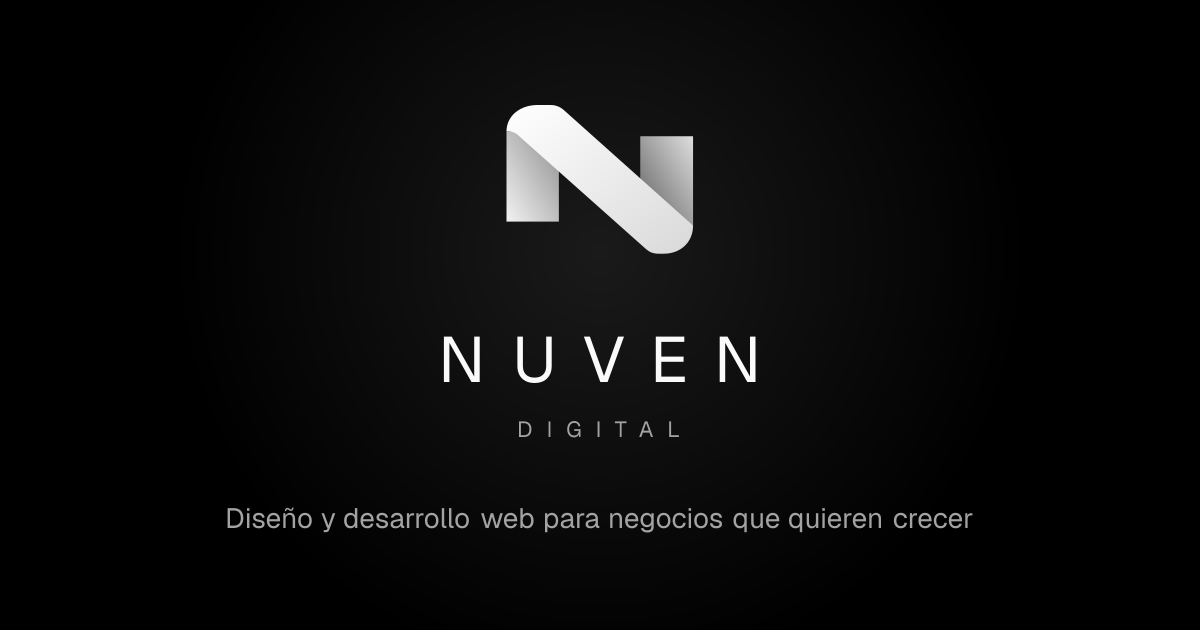
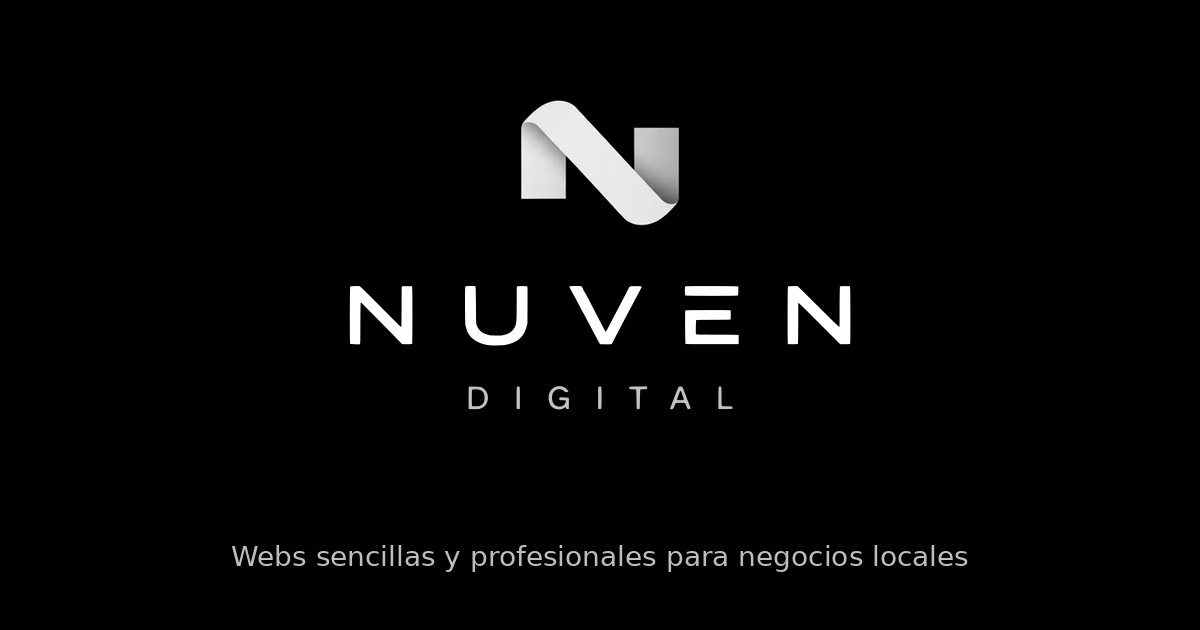
Add files via upload

diff --git a/css/style.css b/css/style.css
@@ -83,9 +83,8 @@ main,.foot,.top,.dock{position:relative;z-index:1}
   position:relative;display:grid;justify-items:center;gap:1.4rem;
   clip-path:inset(50% 0 50% 0);animation:openUp .5s cubic-bezier(.6,0,.2,1) .65s forwards;
 }
-.intro-mark{filter:drop-shadow(0 0 22px rgba(255,255,255,.25))}
-.intro-name{display:grid;justify-items:center;gap:.55rem;font:500 1.5rem/1 var(--display);letter-spacing:.42em;margin-right:-.42em}
-.intro-name i{font:400 .62rem/1 var(--display);letter-spacing:.7em;margin-right:-.7em;font-style:normal;color:var(--dim)}
+.intro-mark{width:min(8.25rem,36vw);height:auto;filter:drop-shadow(0 0 22px rgba(255,255,255,.25))}
+.intro-name{width:min(14.4rem,64vw);height:auto}
 @keyframes dotIn{to{opacity:1;transform:scale(1)}}
 @keyframes dotOut{to{opacity:0;transform:scale(.4)}}
 @keyframes beam{0%{opacity:1;transform:scaleX(0)}100%{opacity:1;transform:scaleX(1)}}
@@ -98,11 +97,14 @@ main,.foot,.top,.dock{position:relative;z-index:1}
 .top{position:sticky;top:0;z-index:50;background:rgba(0,0,0,.82);backdrop-filter:blur(10px);-webkit-backdrop-filter:blur(10px);border-bottom:1px solid var(--line)}
 .top-in{display:flex;align-items:center;justify-content:space-between;gap:1rem;min-height:var(--top-h)}
 .logo{display:inline-flex;align-items:center;gap:.7rem;text-decoration:none}
-.wm{display:grid;gap:.28rem;font:500 .95rem/1 var(--display);letter-spacing:.3em}
-.wm i{font:400 .5rem/1 var(--display);letter-spacing:.62em;font-style:normal;color:var(--dim)}
+.mk{height:2rem;width:auto}
+.wm{height:2rem;width:auto}
 .nav{display:none}
 .nav a{text-decoration:none;color:var(--dim);font-size:.95rem;padding:.4rem .2rem;transition:color .2s}
 .nav a:hover{color:var(--fg)}
+.nav a::before{content:"[" / "";margin-right:.35em;opacity:0;transition:opacity .2s}
+.nav a::after{content:"]" / "";margin-left:.35em;opacity:0;transition:opacity .2s}
+.nav a:hover::before,.nav a:hover::after,.nav a:focus-visible::before,.nav a:focus-visible::after{opacity:1}
 @media (min-width:62rem){.nav{display:flex;gap:1.6rem}}
 
 /* ---------- Botones ---------- */
@@ -127,9 +129,14 @@ main,.foot,.top,.dock{position:relative;z-index:1}
 .hero{
   position:relative;isolation:isolate;overflow:hidden;
   min-height:calc(100svh - var(--top-h) - var(--dock-h));
-  display:flex;align-items:center;
-  padding-block:clamp(3rem,9vw,6rem);
+  display:flex;flex-direction:column;justify-content:space-between;gap:clamp(2rem,6vw,4rem);
+  padding-top:clamp(3rem,9vw,6rem);
 }
+.hero>.wrap{margin-block:auto}
+.giant{width:calc(100% - 2*var(--gut));margin-inline:auto;aspect-ratio:490/80;overflow:hidden;opacity:.94}
+.giant img{display:block;width:100%;height:auto}
+@media (prefers-reduced-motion:no-preference){.js .giant img{animation:giantUp .9s cubic-bezier(.2,.8,.2,1) .15s both}}
+@keyframes giantUp{from{transform:translateY(40%);opacity:0}}
 @media (min-width:62rem){.hero{min-height:calc(100svh - var(--top-h))}}
 .field{
   position:absolute;inset:0;width:100%;height:100%;z-index:-2;
@@ -163,7 +170,11 @@ h3{font:600 1.15rem/1.25 var(--display);letter-spacing:-.02em}
 }
 @media (min-width:62rem){.phone{--ph:min(70svh,36rem)}}
 .phone::before{content:"";position:absolute;left:50%;top:.55rem;width:28%;height:.45em;transform:translateX(-50%);background:#000;border:1.5px solid rgba(255,255,255,.35);border-radius:1em;z-index:3}
-.ph-screen{position:relative;height:100%;border-radius:1.7rem;overflow:hidden;background:#000;border:1px solid var(--line)}
+.ph-screen{position:relative;height:100%;border-radius:1.7rem;overflow:hidden;background:var(--s-bg,#000);color:var(--s-fg,#fff);border:1px solid var(--line);transition:background .35s,color .35s}
+.ph-screen[data-style="limpio"]{--s-bg:#f4f7fb;--s-fg:#0f1b2d;--s-dim:#4a5a73;--s-line:#cfd8e6;--s-acc:#1d4ed8;--s-on:#fff;--s-font:system-ui,-apple-system,"Segoe UI",Roboto,sans-serif;--s-w:700;--s-tt:none;--s-rb:.6em;--s-rl:.6em}
+.ph-screen[data-style="industrial"]{--s-bg:#111315;--s-fg:#f4f4f4;--s-dim:#a8a8a8;--s-line:#3a3d42;--s-acc:#fcc204;--s-on:#111;--s-font:Impact,"Arial Narrow","Arial Black",system-ui,sans-serif;--s-w:400;--s-tt:uppercase;--s-rb:.15em;--s-rl:.15em}
+.ph-screen[data-style="elegante"]{--s-bg:#fbfaf7;--s-fg:#1a1a1a;--s-dim:#5f5b55;--s-line:#d9d4ca;--s-acc:#1a1a1a;--s-on:#fbfaf7;--s-font:Georgia,"Times New Roman",serif;--s-w:400;--s-tt:none;--s-rb:0;--s-rl:0}
+.ph-screen[data-style="vivo"]{--s-bg:#0a0a0a;--s-fg:#f7f6f2;--s-dim:#a8a8a0;--s-line:#34352c;--s-acc:#c9f13b;--s-on:#0a0a0a;--s-font:var(--display);--s-w:800;--s-tt:none;--s-rb:2em;--s-rl:.9em}
 .sc{position:absolute;inset:0;padding:2.4em 1.1em 1.1em;display:flex;flex-direction:column;gap:.8em;opacity:0;transition:opacity .45s}
 .sc-3{opacity:1}
 
@@ -190,14 +201,14 @@ h3{font:600 1.15rem/1.25 var(--display);letter-spacing:-.02em}
 
 /* escena 2 y demo: mini web */
 .mw{display:flex;flex-direction:column;gap:.9em;height:100%}
-.mw-name{font:700 1.45em/1.1 var(--display);letter-spacing:-.02em}
-.mw-tag{color:var(--dim);font-size:1em}
+.mw-name{font:var(--s-w,700) 1.45em/1.1 var(--s-font,var(--display));letter-spacing:-.02em;text-transform:var(--s-tt,none)}
+.mw-tag{color:var(--s-dim,var(--dim));font-size:1em}
 .mw-btns{display:grid;gap:.55em}
-.mw-b{display:flex;align-items:center;justify-content:center;min-height:2.9em;border-radius:.8em;border:1.5px solid #fff;font-weight:600;font-size:1.05em}
-.mw-b.w{background:#fff;color:#000}
+.mw-b{display:flex;align-items:center;justify-content:center;min-height:2.9em;border-radius:var(--s-rb,.8em);border:1.5px solid var(--s-fg,#fff);font-weight:600;font-size:1.05em;text-transform:var(--s-tt,none)}
+.mw-b.w{background:var(--s-acc,#fff);color:var(--s-on,#000);border-color:var(--s-acc,#fff)}
 .mw-list{display:grid;gap:.5em;margin-top:.3em}
-.mw-list li{padding:.75em .9em;border:1px solid var(--line);border-radius:.8em;font-size:.98em}
-.mw-zone{margin-top:auto;color:var(--dim);font-size:.9em}
+.mw-list li{padding:.75em .9em;border:1px solid var(--s-line,var(--line));border-radius:var(--s-rl,.8em);font-size:.98em}
+.mw-zone{margin-top:auto;color:var(--s-dim,var(--dim));font-size:.9em}
 
 /* escena 3: mensaje */
 .notif{border:1px solid rgba(255,255,255,.4);background:rgba(255,255,255,.1);border-radius:1em;padding:.7em .9em;font-size:.95em}
@@ -258,25 +269,35 @@ h3{font:600 1.15rem/1.25 var(--display);letter-spacing:-.02em}
 .feat li::before{content:"";position:absolute;left:0;top:.7em;width:.7rem;height:2px;background:#fff;box-shadow:0 0 8px rgba(255,255,255,.7)}
 .feat p{color:var(--dim);margin-top:.2rem}
 .demo-note{margin-top:1.4rem;font-size:.9rem;color:var(--dim)}
+.pick{margin:1.6rem 0 2rem;display:grid;gap:.2rem}
+.pick-t{font-size:.9rem;color:var(--dim);margin-top:.7rem}
+.pick .chips{margin:.3rem 0 .4rem}
 
-/* ---------- Sección blanca: ejemplo real ---------- */
+/* ---------- Sección blanca: proyectos ---------- */
 .paper{background:var(--paper);color:var(--ink)}
 .paper .lead{color:var(--ink-dim)}
-.case{display:grid;gap:clamp(2rem,6vw,4rem);align-items:center}
-.ticks{margin:1.8rem 0 2rem;display:grid;gap:.7rem}
-.ticks li{position:relative;padding-left:1.7rem}
-.ticks li::before{content:"";position:absolute;left:0;top:.62em;width:.8rem;height:2px;background:currentColor}
-@media (min-width:62rem){.case{grid-template-columns:1fr 1.15fr}}
-.case-visual{--p:.5;perspective:1100px}
-.browser{
-  background:#fff;border:2px solid #000;border-radius:14px;overflow:hidden;box-shadow:10px 10px 0 #000;
-  transform:rotateX(calc((.5 - var(--p)) * 10deg)) rotateY(calc((var(--p) - .5) * -8deg));
-  transition:transform .15s linear;
+.works-wrap{margin-top:clamp(2rem,5vw,3.2rem)}
+.works{
+  display:grid;grid-auto-flow:column;grid-auto-columns:min(84%,24rem);gap:1.4rem;
+  overflow-x:auto;scroll-snap-type:x mandatory;margin-inline:calc(-1*var(--gut));padding:.2rem var(--gut) 1.8rem;
+  scrollbar-width:thin;overscroll-behavior-x:contain;
 }
-.browser-bar{display:flex;align-items:center;gap:.4rem;padding:.7rem .9rem;border-bottom:2px solid #000;background:#f2f2f2}
-.browser-bar i{width:.65rem;height:.65rem;border-radius:50%;border:1.5px solid #000}
-.browser-bar span{margin-left:.6rem;font:500 .8rem/1 var(--body);color:#000}
-.browser img{width:100%;height:auto;aspect-ratio:1600/904;background:#eee}
+.work{scroll-snap-align:start;display:grid;gap:.6rem;align-content:start}
+.work h3{margin-top:.7rem;font-size:1.25rem}
+.work-type{color:var(--ink-dim)}
+.work-style{display:flex;align-items:center;gap:.8rem;font-size:.95rem}
+.sws{display:inline-flex;flex:none}
+.sws i{width:1.5rem;height:1.5rem;border-radius:50%;background:var(--c);border:1.5px solid #000;margin-left:-.35rem}
+.sws i:first-child{margin-left:0}
+.work-link{font-weight:600;text-underline-offset:4px;width:max-content}
+.browser{background:#fff;border:2px solid #000;border-radius:14px;overflow:hidden;box-shadow:6px 6px 0 #000}
+.browser-bar{display:flex;align-items:center;gap:.4rem;padding:.6rem .8rem;border-bottom:2px solid #000;background:#f2f2f2}
+.browser-bar i{width:.6rem;height:.6rem;border-radius:50%;border:1.5px solid #000}
+.browser-bar span{margin-left:.6rem;font:500 .78rem/1 var(--body);color:#000}
+.browser img{width:100%;height:auto;aspect-ratio:16/9;background:#eee}
+@media (min-width:62rem){
+  .works{grid-auto-flow:row;grid-template-columns:repeat(3,1fr);grid-auto-columns:auto;overflow:visible;scroll-snap-type:none;margin-inline:0;padding:.2rem .5rem 1rem 0;gap:2rem}
+}
 
 /* ---------- Precios ---------- */
 .plans{margin-top:clamp(2rem,5vw,3.5rem);display:grid;gap:1rem}

diff --git a/index.html b/index.html
@@ -7,7 +7,7 @@
 <meta name="description" content="Hacemos webs sencillas y profesionales para reformistas, fontaneros, electricistas y pintores. Rápidas en el móvil y con tu WhatsApp siempre a mano.">
 <meta name="theme-color" content="#000000">
 <link rel="canonical" href="https://nuvendigital.com/">
-<link rel="icon" href="assets/icon.svg" type="image/svg+xml">
+<link rel="icon" href="assets/favicon-32.png" type="image/png" sizes="32x32">
 <link rel="icon" href="favicon.ico" sizes="32x32">
 <link rel="apple-touch-icon" href="assets/apple-icon.png">
 <meta property="og:type" content="website">
@@ -37,18 +37,6 @@ try{if(!sessionStorage.getItem("nd-intro"))d.classList.add("intro-active")}catch
 </script>
 </head>
 <body>
-<svg width="0" height="0" style="position:absolute" aria-hidden="true" focusable="false">
-  <defs>
-    <linearGradient id="nd-l" x1="0" y1="1" x2="1" y2="0"><stop offset="0" stop-color="#f2f2f2"/><stop offset=".6" stop-color="#d6d6d6"/><stop offset="1" stop-color="#8e8e8e"/></linearGradient>
-    <linearGradient id="nd-r" x1="1" y1="0" x2="0" y2="1"><stop offset="0" stop-color="#dedede"/><stop offset=".55" stop-color="#a9a9a9"/><stop offset="1" stop-color="#5e5e5e"/></linearGradient>
-    <linearGradient id="nd-d" x1="0" y1="0" x2="1" y2="1"><stop offset="0" stop-color="#fff"/><stop offset=".7" stop-color="#f1f1f1"/><stop offset="1" stop-color="#d9d9d9"/></linearGradient>
-    <symbol id="nd-mark" viewBox="5 3 89 72">
-      <path d="M7.5 17h23.8v41H7.5z" fill="url(#nd-l)"/>
-      <path d="M68.3 19.2h24v40.6h-24z" fill="url(#nd-r)"/>
-      <path d="M7.5 17C7.5 10 13.6 5 21.6 5H27.4C30.2 5 32.2 6 34 7.7L92.3 59.8C92.3 67.4 86.6 72.6 79 72.6H76.6C74.2 72.6 72.5 71.9 70.8 70.4L12.6 18.6C11.1 17.3 9.4 16.9 7.5 17Z" fill="url(#nd-d)"/>
-    </symbol>
-  </defs>
-</svg>
 <a class="skip" href="#main">Saltar al contenido</a>
 
 <!-- Intro: un punto de luz se abre en línea y deja ver el logo. Ligera y una vez por sesión. -->
@@ -57,12 +45,8 @@ try{if(!sessionStorage.getItem("nd-intro"))d.classList.add("intro-active")}catch
   <span class="i-beam"></span>
   <span class="i-dot"></span>
   <div class="i-logo">
-    <svg class="intro-mark" viewBox="5 3 89 72" width="132" height="107" focusable="false">
-      <path d="M7.5 17h23.8v41H7.5z" fill="url(#nd-l)"/>
-      <path d="M68.3 19.2h24v40.6h-24z" fill="url(#nd-r)"/>
-      <path d="M7.5 17C7.5 10 13.6 5 21.6 5H27.4C30.2 5 32.2 6 34 7.7L92.3 59.8C92.3 67.4 86.6 72.6 79 72.6H76.6C74.2 72.6 72.5 71.9 70.8 70.4L12.6 18.6C11.1 17.3 9.4 16.9 7.5 17Z" fill="url(#nd-d)"/>
-    </svg>
-    <span class="intro-name">NUVEN<i>DIGITAL</i></span>
+    <img class="intro-mark" src="assets/logo-mark.webp" width="132" height="106" alt="">
+    <img class="intro-name" src="assets/logo-wordmark.svg" width="230" height="65" alt="">
   </div>
 </div>
 
@@ -71,8 +55,8 @@ try{if(!sessionStorage.getItem("nd-intro"))d.classList.add("intro-active")}catch
 <header class="top">
   <div class="wrap top-in">
     <a class="logo" href="#inicio" aria-label="NuvenDigital, ir al inicio">
-      <svg class="mk" viewBox="5 3 89 72" width="40" height="32" aria-hidden="true" focusable="false"><use href="#nd-mark"/></svg>
-      <span class="wm">NUVEN<i>DIGITAL</i></span>
+      <img class="mk" src="assets/logo-mark.webp" width="40" height="32" alt="">
+      <img class="wm" src="assets/logo-wordmark.svg" width="96" height="27" alt="">
     </a>
     <nav class="nav" aria-label="Principal">
       <a href="#historia">Una noche cualquiera</a>
@@ -81,7 +65,7 @@ try{if(!sessionStorage.getItem("nd-intro"))d.classList.add("intro-active")}catch
       <a href="#precios">Precios</a>
       <a href="#contacto">Contacto</a>
     </nav>
-    <a class="btn btn-sm btn-wa" href="https://wa.me/34600000000?text=Hola%2C%20quiero%20una%20web%20para%20mi%20negocio." rel="noopener">WhatsApp</a>
+    <a class="btn btn-sm btn-wa" href="https://wa.me/34600000000?text=Hola%2C%20quiero%20una%20web%20para%20mi%20negocio." rel="noopener">Hablamos</a>
   </div>
 </header>
 
@@ -99,6 +83,7 @@ try{if(!sessionStorage.getItem("nd-intro"))d.classList.add("intro-active")}catch
       </div>
       <p class="hero-note">Somos un equipo pequeño de Roses, en Girona. Hablas directo con quien te hace la web.</p>
     </div>
+    <div class="giant" aria-hidden="true"><img src="assets/logo-wordmark.svg" width="490" height="138" alt=""></div>
   </section>
 
   <!-- 2. Historia: una noche cualquiera (se mueve con el scroll) -->
@@ -373,8 +358,8 @@ try{if(!sessionStorage.getItem("nd-intro"))d.classList.add("intro-active")}catch
 <footer class="foot">
   <div class="wrap foot-in">
     <a class="logo" href="#inicio" aria-label="NuvenDigital, volver arriba">
-      <svg class="mk" viewBox="5 3 89 72" width="40" height="32" aria-hidden="true" focusable="false"><use href="#nd-mark"/></svg>
-      <span class="wm">NUVEN<i>DIGITAL</i></span>
+      <img class="mk" src="assets/logo-mark.webp" width="40" height="32" alt="">
+      <img class="wm" src="assets/logo-wordmark.svg" width="96" height="27" alt="">
     </a>
     <p>Webs sencillas y profesionales para negocios locales.</p>
     <p><a href="privacidad.html">Política de privacidad</a></p>

diff --git a/js/main.js b/js/main.js
@@ -151,9 +151,6 @@
     for (var j = 0; j < dots.length; j++) dots[j].classList.toggle("on", j <= n);
   };
 
-  /* ---------- Mockup del ejemplo real: se inclina con el scroll ---------- */
-  var tilt = document.querySelector("[data-progress]");
-
   var ticking = false;
   var update = function () {
     ticking = false;
@@ -163,13 +160,9 @@
       var p = clamp(-r.top / Math.max(1, r.height - vh), 0, 0.999);
       setScene(Math.min(3, Math.floor(p * 4)));
     }
-    if (tilt && !reduce) {
-      var b = tilt.getBoundingClientRect();
-      tilt.style.setProperty("--p", clamp(1 - (b.top + b.height / 2) / vh, 0, 1).toFixed(3));
-    }
   };
   var onScroll = function () { if (!ticking) { ticking = true; requestAnimationFrame(update); } };
-  if (live || (tilt && !reduce)) {
+  if (live) {
     addEventListener("scroll", onScroll, { passive: true });
     addEventListener("resize", onScroll);
     update();
@@ -183,16 +176,25 @@
     reformas: { name: "Reformas Ejemplo", tag: "Baños, cocinas y reformas integrales", s1: "Baños y cocinas", s2: "Reformas integrales", s3: "Terrazas y exteriores", zone: "Costa Brava" }
   };
   var mw = document.getElementById("mw");
-  var chips = document.querySelectorAll(".chip");
-  if (mw && chips.length) {
+  var screen = document.getElementById("demoScreen");
+  if (mw) {
     var binds = {};
     Array.prototype.forEach.call(mw.querySelectorAll("[data-b]"), function (el) { binds[el.getAttribute("data-b")] = el; });
-    Array.prototype.forEach.call(chips, function (chip) {
+    // Cada grupo de botones marca solo uno como activo
+    var pick = function (chip, group) {
+      Array.prototype.forEach.call(group.querySelectorAll(".chip"), function (c) {
+        c.setAttribute("aria-pressed", c === chip ? "true" : "false");
+      });
+    };
+    Array.prototype.forEach.call(document.querySelectorAll(".chip"), function (chip) {
       chip.addEventListener("click", function () {
-        var d = TRADES[chip.getAttribute("data-trade")];
-        if (!d) return;
-        Array.prototype.forEach.call(chips, function (c) { c.setAttribute("aria-pressed", c === chip ? "true" : "false"); });
-        for (var k in d) { if (binds[k]) binds[k].textContent = d[k]; }
+        pick(chip, chip.parentNode);
+        var t = chip.getAttribute("data-trade");
+        var st = chip.getAttribute("data-style");
+        if (t && TRADES[t]) {
+          for (var k in TRADES[t]) { if (binds[k]) binds[k].textContent = TRADES[t][k]; }
+        }
+        if (st && screen) screen.setAttribute("data-style", st);
       });
     });
   }

diff --git a/privacidad.html b/privacidad.html
@@ -7,31 +7,19 @@
 <meta name="description" content="Cómo trata NuvenDigital los datos: esta web no usa cookies ni guarda lo que escribes en el formulario.">
 <meta name="robots" content="noindex">
 <meta name="theme-color" content="#000000">
-<link rel="icon" href="assets/icon.svg" type="image/svg+xml">
+<link rel="icon" href="assets/favicon-32.png" type="image/png" sizes="32x32">
 <link rel="icon" href="favicon.ico" sizes="32x32">
 <link rel="apple-touch-icon" href="assets/apple-icon.png">
 <link rel="preload" href="assets/fonts/sora-latin.woff2" as="font" type="font/woff2" crossorigin>
 <link rel="stylesheet" href="css/style.css">
 </head>
 <body>
-<svg width="0" height="0" style="position:absolute" aria-hidden="true" focusable="false">
-  <defs>
-    <linearGradient id="nd-l" x1="0" y1="1" x2="1" y2="0"><stop offset="0" stop-color="#f2f2f2"/><stop offset=".6" stop-color="#d6d6d6"/><stop offset="1" stop-color="#8e8e8e"/></linearGradient>
-    <linearGradient id="nd-r" x1="1" y1="0" x2="0" y2="1"><stop offset="0" stop-color="#dedede"/><stop offset=".55" stop-color="#a9a9a9"/><stop offset="1" stop-color="#5e5e5e"/></linearGradient>
-    <linearGradient id="nd-d" x1="0" y1="0" x2="1" y2="1"><stop offset="0" stop-color="#fff"/><stop offset=".7" stop-color="#f1f1f1"/><stop offset="1" stop-color="#d9d9d9"/></linearGradient>
-    <symbol id="nd-mark" viewBox="5 3 89 72">
-      <path d="M7.5 17h23.8v41H7.5z" fill="url(#nd-l)"/>
-      <path d="M68.3 19.2h24v40.6h-24z" fill="url(#nd-r)"/>
-      <path d="M7.5 17C7.5 10 13.6 5 21.6 5H27.4C30.2 5 32.2 6 34 7.7L92.3 59.8C92.3 67.4 86.6 72.6 79 72.6H76.6C74.2 72.6 72.5 71.9 70.8 70.4L12.6 18.6C11.1 17.3 9.4 16.9 7.5 17Z" fill="url(#nd-d)"/>
-    </symbol>
-  </defs>
-</svg>
 <a class="skip" href="#main">Saltar al contenido</a>
 <header class="top">
   <div class="wrap top-in">
     <a class="logo" href="index.html" aria-label="NuvenDigital, ir al inicio">
-      <svg class="mk" viewBox="5 3 89 72" width="40" height="32" aria-hidden="true" focusable="false"><use href="#nd-mark"/></svg>
-      <span class="wm">NUVEN<i>DIGITAL</i></span>
+      <img class="mk" src="assets/logo-mark.webp" width="40" height="32" alt="">
+      <img class="wm" src="assets/logo-wordmark.svg" width="96" height="27" alt="">
     </a>
   </div>
 </header>

diff --git a/404.html b/404.html
@@ -6,7 +6,7 @@
 <title>Página no encontrada | NuvenDigital</title>
 <meta name="robots" content="noindex">
 <meta name="theme-color" content="#000000">
-<link rel="icon" href="/assets/icon.svg" type="image/svg+xml">
+<link rel="icon" href="/assets/favicon-32.png" type="image/png" sizes="32x32">
 <link rel="icon" href="/favicon.ico" sizes="32x32">
 <link rel="stylesheet" href="/css/style.css">
 </head>
